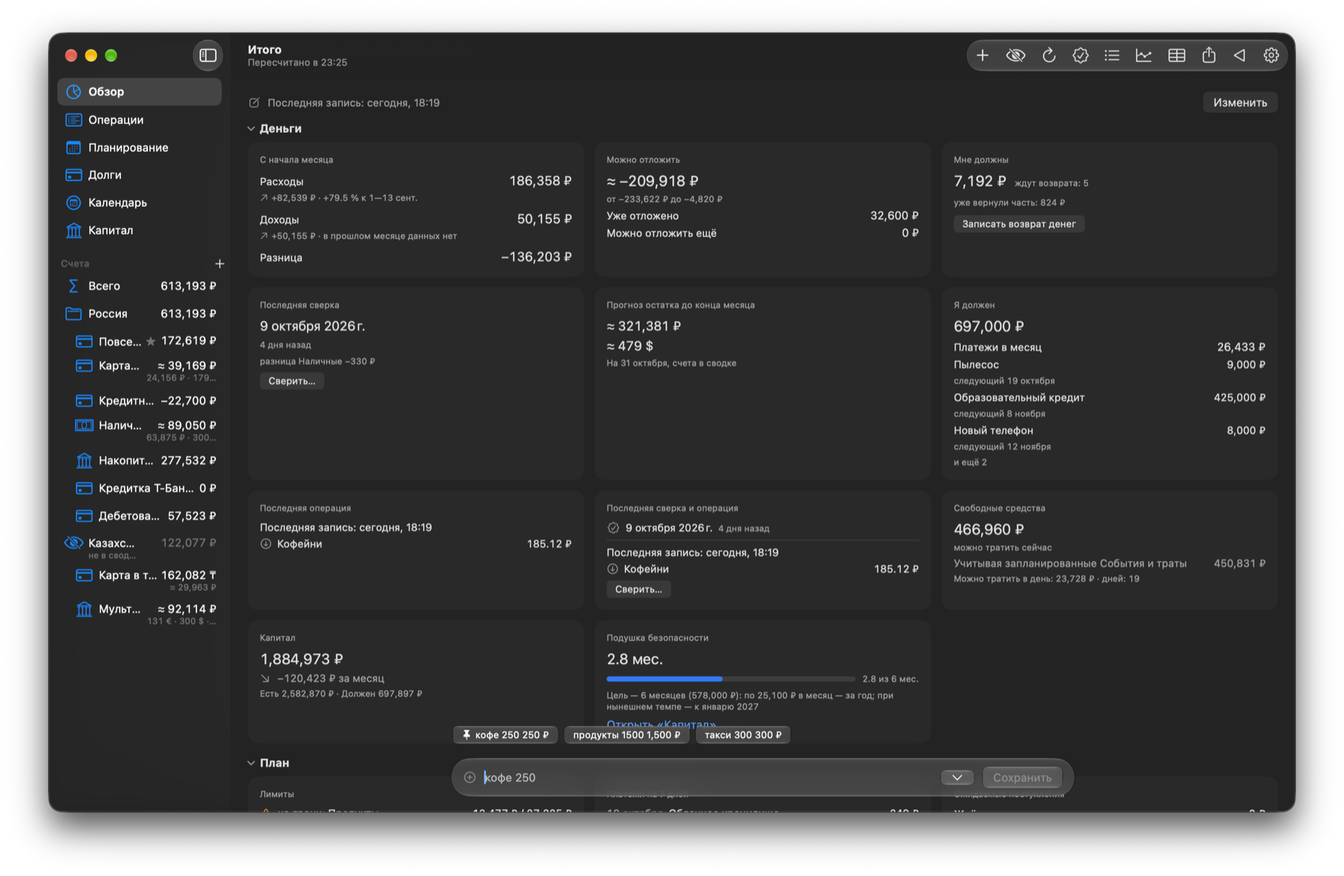
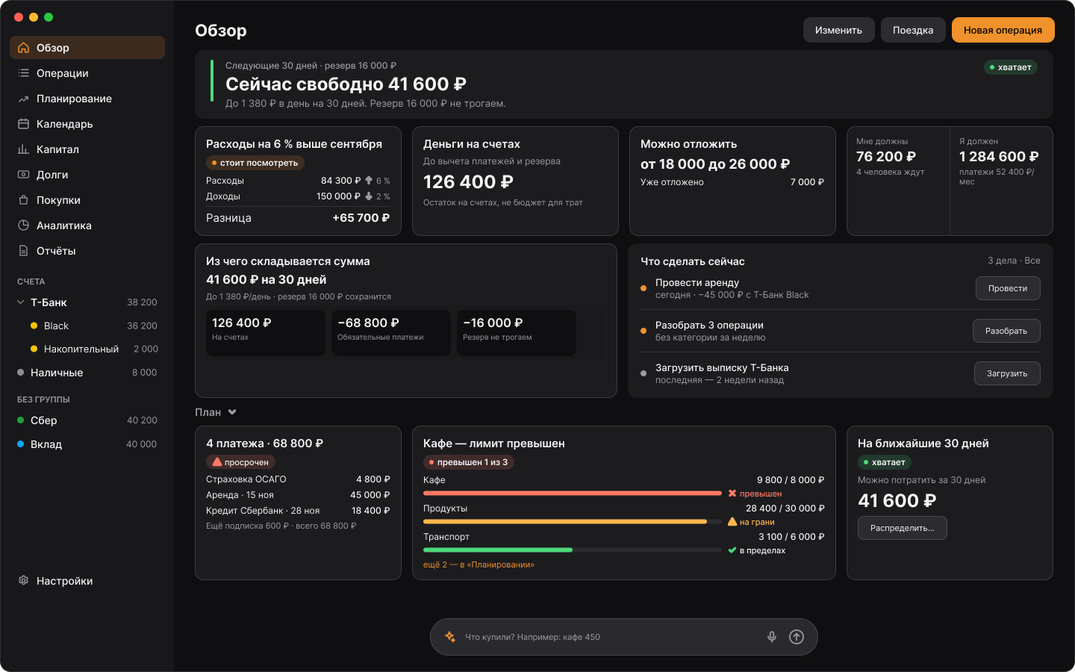
Describe the app as it is today in the README and the feature guide
The README and guide/features.md still described the app of early November; they now list
the credit card of a bank, partial payments, deductions, meters, the capital before the
books, iPhone and iPad, 24 languages and the report preview, with current screenshots.

diff --git a/guide/features.md b/guide/features.md
@@ -93,7 +93,8 @@
   этот счёт.
 - **Переводы и обмен валют.** Перевод между счетами или между валютами одного счёта:
   отправлено и получено — как показал банк, курс виден сам, комиссия — отдельный расход. У
-  перевода есть точное время, а не только дата. Перевод — не доход и не расход, в списке дня он
+  перевода есть точное время, а не только дата, и помнится пояс, в котором он записан: день перевода
+  и сверки читается в нём, поэтому после поездки или смены пояса операция не переезжает на другой день. Перевод — не доход и не расход, в списке дня он
   стоит отдельной строкой с ⇄ и отменяется одним ⌘Z. «Перевести остаток…» у кредитной карты в
   минусе покрывает её долг с основного счёта. Перевод пишется и строкой: `перевод 5000 сбер
   т-банк` — 5,000 ₽ с первого счёта на второй («с» и «на» меняют порядок, счёт узнаётся по имени
@@ -103,8 +104,8 @@
   маше 500` — по-прежнему расход. Если счёт не держит валюту операции, панель ↓
   предлагает «Списано со счёта» в его основной валюте по курсам Банка России, и сумму из выписки
   можно вписать поверх.
-- **Кредитка как в банке.** Кредитная карта — счёт, остаток которого уходит в минус, а не долг; её
-  условия — в редакторе счёта («Это кредитная карта»): лимит, ставка на покупки и на снятие и
+- **Кредитка как в банке.** Кредитная карта — отдельная карта банка со своим счётом, остаток которого
+  уходит в минус, а не долг; её условия — в редакторе счёта («Это кредитная карта»): лимит, ставка на покупки и на снятие и
   переводы, льготный период «выписка N-го числа + M дней на оплату» (25 по умолчанию) или «N дней с
   первой покупки», минимальный платёж (процент долга, не меньше суммы), комиссия за снятие и
   переводы (процент плюс фиксированная сумма) и «снятие и переводы без льготного периода». Экран
@@ -185,7 +186,10 @@
   (внесённое сверх плана засчитывается в следующие месяцы) и остатки бюджетов событий; от неё
   считается «Можно тратить в день». Плановый платёж может относиться к событию — тогда он часть
   его бюджета и не вычитается дважды; обычная операция оплачивает самый ранний неоплаченный срок,
-  а «Это другое» отвязывает её от всего платежа. Остатки бюджетов событий можно не вычитать вовсе —
+  а «Это другое» отвязывает её от всего платежа. Платёж можно вносить по частям: операции той
+  же категории в пределах пяти дней от срока и меньше цены считаются его частями, остаток — цена минус
+  внесённое, а срок остаётся открытым, пока платёж не оплачен полностью; у каждой такой связи есть
+  «Это другое», и платёж, оплаченный частями, не вычитается из свободной суммы дважды. Остатки бюджетов событий можно не вычитать вовсе —
   переключатель в «Свободной сумме» и в «Настройках → Планирование». Подписки, найденные по
   операциям, берут счёт и карту этих операций; ожидаемое поступление, которое приходит дважды в
   месяц (15-го и в последний день, по 25,000 ₽), заводится одной формой — «Ещё срок в месяце». Накопленное в валютной цели считается по
@@ -342,9 +346,12 @@
 - **Честные деньги.** Суммы — целые числа в единицах 1/10000, каждый расчёт идёт через
   `Decimal`, и деньги никогда не считаются в числах с плавающей точкой. Числа пишутся одинаково
   на обоих языках: `1,234.56 ₽`, `33.3 %`.
-- **Два языка, две темы.** Русский на русском Mac, английский на любом другом; в настройках можно
-  выбрать любой из них. Тема — светлая, тёмная или системная, основной цвет — на ваш выбор; размер
-  шрифта — мелкий, обычный, крупный или очень крупный («Настройки → Оформление»). Настройки —
+- **24 языка и темы.** Интерфейс переведён на 24 языка, включая русский и английский: язык
+  берётся по системе, в настройках можно выбрать любой. Тема — светлая,
+  тёмная или системная, основной цвет — на ваш выбор. Размер шрифта — мелкий, обычный, крупный или
+  очень крупный («Настройки → Оформление»); на iPhone и iPad по умолчанию стоит «Как в системе»: текст
+  следует размеру из системных настроек, в том числе самым крупным, а широкие строки при этом
+  встают в столбец. Настройки —
   боковая панель разделов и поиск по подписям на любом языке; окна, открытые из настроек, встают
   поверх них.
   Liquid Glass — в слое навигации и больше нигде.
@@ -361,6 +368,9 @@
   (бухгалтеру, консультанту): за выбранный период, без скрытых счетов, при желании с заменёнными
   названиями («Обезличить»). Без пароля копия не создаётся. Оригинальные данные при этом не
   меняются.
+- **Отчёт для другого человека.** «Файл → Отчёт для другого человека…»: выберите счета, категории и
+  период, и приложение подготовит PDF с паролем или CSV в зашифрованном контейнере, с подписью
+  «Подготовлено в OhMyMoney». Перед отправкой результат можно посмотреть в Quick Look. Пароль PDF — только латиницей, форма об этом говорит.
 - **Только просмотр.** Режим, в котором приложение ничего не записывает: можно смотреть и
   показывать, но нельзя ничего изменить случайно. Выход — по Touch ID или паролю.
 - **Суммы прячутся сами при записи экрана.** На iPhone и iPad при записи или показе экрана суммы
@@ -383,10 +393,14 @@
 - **Вопросы при правке.** Если правка записанной операции сама создаёт или усугубляет выход за
   лимит кредитки или ниже неснижаемого остатка, приложение спрашивает так же, как при новой записи;
   если превышение было до правки, оно не повторяет вопрос.
-- **Кредитные карты.** Кредитный счёт всегда с картой. Пока идёт льготный период — это карта с
-  напоминанием «внести до…»; когда пропущен срок выписки, вся задолженность показывается долгом в
-  «Долгах» и на экране банка (остаток считается один раз, в итоги долг не добавляется). Трата за
-  лимит сначала спрашивает, можно ли её записать, и даёт красную строку в «Стоит посмотреть».
+- **Кредитные карты.** У каждого банка своя кредитная карта со своими условиями и своим долгом;
+  кредитную карту нельзя завести без карты. Пока идёт льготный период — это карта с напоминанием
+  «внести до…»; когда пропущен срок выписки, задолженность показывается долгом в «Долгах» и на
+  экране банка (остаток считается один раз, в итоги долг второй раз не добавляется), а в итогах
+  банка и группы вычитается. Обычную карту можно сделать кредитной: приложение спросит, что делать
+  с прошлыми операциями — перенести все (по умолчанию, одним шагом ⌘Z, затем сверка обоих счетов),
+  только после выбранной даты или ничего. Трата за лимит сначала спрашивает, можно ли её записать,
+  и даёт красную строку в «Стоит посмотреть».
 - **Наличные по купюрам.** Сверка кошелька «По купюрам»: введите, сколько каких купюр и монет, и
   сумма попадёт в сверку.
 - **Вклады.** «Витрина вкладов» — встроенный список из 14 банков со ставками на дату (старше 30
@@ -425,6 +439,79 @@
   архиве). «Знаешь ли ты» — находка из 25 проверок. Итоги сохраняются в PDF (при «Скрыть суммы»
   приложение спросит «Сохранить с суммами?»), картинку года можно отправить через «Поделиться».
   Цифры сходятся с «Отчётами».
+- **Покупки и вещи.** Раздел «Покупки»: «Хочу купить» — желания с ценой, приоритетом, ссылкой и
+  историей цен; список покупок; «Вещи» — то, чем вы владеете, со стоимостью владения (цена плюс
+  расходы с тегом вещи минус продажа, на месяцы владения); «Ждут зачисления» — возвраты с
+  маркетплейса со сроком. Перед крупной покупкой (больше 20 % свободной суммы) приложение
+  может предложить паузу (включается в настройках), а через день спрашивает «Не пожалели?». Скидка — поле операции, после заправки
+  спрашивается пробег, у человека есть день рождения и бюджет подарка.
+- **Mac: Быстрые команды и уведомления.** Действия для Shortcuts и AppleScript: добавить,
+  изменить, удалить и найти операцию, итог месяца, выгрузка месяца в Markdown. Уведомление накануне
+  платежа с кнопкой «Записать оплату», о почти исчерпанном лимите, о готовых итогах и вечернее
+  напоминание; при «Скрыть суммы» уведомления без сумм, скрытые счета не называются никогда.
+  Фильтр фокусирования прячет суммы. Операции в Spotlight — только описание и место, по умолчанию
+  выключено. Любой раздел — в своём окне (⌥⌘N); операции перетаскиваются в Numbers и Почту
+  таблицей; «Операции», «Отчёты» и итоги печатаются; компактный вид «Операций», «Долгов» и
+  «Покупок»; Quick Look показывает архив переноса.
+- **Привычки и уроки.** Пропущенные дни восстанавливаются по остаткам счетов, потом по дням;
+  вечером — строка «Сегодня без трат?». Серии записей прощают один пропуск в неделю; значки за серии
+  и месяцы приходят в «Итоги» и остаются навсегда. У цели есть заметка «Зачем коплю» — она
+  появляется в трудную минуту. В гайде — список первого месяца и пять коротких уроков; режим
+  новичка приглушает сложные разделы, пока они не понадобятся.
+- **Кэшбэк-советник.** Потолок кэшбэка в месяц у правила и у счёта, день, когда банк открывает
+  выбор категорий, и лист, который предлагает категории месяца и сопоставляет категории банка с
+  вашими. В «Стоит посмотреть» — «Какой картой платить здесь» и ловушка кэшбэка; «Упущенный
+  кэшбэк» за три месяца — на экране счёта.
+- **История изменений.** У операции есть вкладка «История»: кто и когда менял её, на каком
+  устройстве. Удаление против правки решается по времени. Ключ обмена хранится в связке ключей, к
+  нему есть лист восстановления из 24 слов с QR-кодом для печати.
+- **Переезд из другого приложения.** «Файл → Переезд из другого приложения…» (на iPhone и iPad —
+  «Настройки → Счета») читает CSV, текст с табуляцией и Excel (.xlsx) из CoinKeeper, Дзен-мани,
+  Money Manager или любой таблицы. Столбцы угадываются и запоминаются, счета и категории
+  сопоставляются с вашими, предпросмотр показывает число операций, период и дубли. Перед переносом
+  делается копия базы, весь перенос отменяется одним ⌘Z. Выписка банка, загруженная потом,
+  дополняет перенесённые операции, а не удваивает их; валютные строки берут курс своего дня.
+- **Сообщения банка — в операции.** СМС или пуш банка передаются через Быстрые команды. По
+  умолчанию уведомление предлагает записать операцию («Записывать сразу» — настройка), дубли
+  второй раз не предлагаются, названия магазинов, которые вы дали, запоминаются, остаток из
+  сообщения сверяется с остатком счёта. Само сообщение не хранится.
+- **Налоговые вычеты.** У части операции можно отметить вид вычета — лечение, дорогостоящее
+  лечение, своё или детское обучение, спорт; ипотека отдаёт проценты в вычет, а счёт можно отметить
+  как индивидуальный инвестиционный. Таблица лимитов по годам считает, что можно вернуть; без
+  известного дохода она говорит, до какой суммы вернётся 13 %. Предел по процентам ипотеки считается
+  за всю жизнь, и экран говорит, когда прежние годы не учтены.
+- **Счётчики и квитанции.** Счётчики, их показания и квитанции со строками; расход и стоимость месяца
+  сравниваются с прошлым месяцем и прошлым годом, о показаниях напоминают в их окно. Показание
+  меньше прежнего помечается и спрашивает, не заменили ли счётчик, но сохранению не мешает.
+- **Капитал до первой записи.** Имущество начинается с цены покупки, кредит достраивается по графику
+  назад до дня, когда он взят, а деньги на счетах берутся из одной необязательной оценки; без оценки
+  ранняя часть серая и так и подписана. События — кредит взят, вещь куплена, кредит закрыт — стоят
+  на графике, где случились.
+- **Челленджи.** Неделя без доставки, месяц без новых подписок, лимит на кафе или свой: прогресс,
+  серия дней, день срыва и сколько сэкономлено. Создаются в «Планировании», плитка в «Обзоре» по
+  умолчанию скрыта, результат можно отправить картинкой — без сумм, если суммы скрыты.
+- **Инфляция и ключевая ставка.** С приложением идут месячные индексы потребительских цен Росстата с
+  января 2020 года по сентябрь 2026-го; месяц позже последнего известного остаётся без цифры, а не
+  с нулём. Ключевая ставка Банка России хранится по дням: кредит дороже ставки попадает в «Стоит
+  посмотреть», а вклад, который кончается при падающих ставках, об этом говорит.
+- **Чеки пачкой.** Несколько файлов или кодов проходят очередью: ясные записываются, сомнительные
+  ждут, итог их считает; у каждой близкой операции сказано, почему она близкая; чек можно вручную
+  разбить по категориям до записи.
+- **Отметки мест (выключены).** Отметки мест хранятся только на этом устройстве: рядом с отмеченным
+  местом iPhone подсказывает лучшую карту, а карта показывает, куда ушли деньги. Обе возможности
+  выключены по умолчанию, отметки не ходят между устройствами и не попадают в выгрузки.
+- **Mac, iPhone и iPad.** Приложения для iPhone и iPad показывают те же экраны: вкладки внизу и
+  запись за круглой кнопкой «+» на iPhone, боковая панель, как на Mac, на iPad; вечером приходит
+  напоминание записать траты дня. У каждого устройства своя база; изменения ходят небольшими
+  зашифрованными файлами через папку, которую выберете вы (в том числе в iCloud Drive), файл самой
+  базы в облако не кладётся. Запись, изменённая на двух устройствах, ждёт в «Конфликтах», пока вы не
+  выберете. В настройках обмена есть и облачные диски — Яндекс.Диск, Dropbox, OneDrive, Google Drive,
+  Облако Mail.ru и Supabase: файлы шифруются до загрузки и сервис видит только нечитаемые. Для
+  части дисков приложению нужен ключ, пока его нет — «Подключить» недоступно и говорит об этом;
+  с настоящими сервисами работа проверена ещё не у всех. Выпуски для iPhone и iPad
+  отдельным файлом не выходят — они собираются из исходников.
+- **Тихий пересчёт.** Цифры пересчитываются после каждой записи, блок держит прежнее значение,
+  пока не готово новое, а цифра, посчитанная до последней записи, подписана временем расчёта.
 - **Ваши данные — на вашем Mac.** База SQLite в контейнере приложения, бэкап после каждого
   изменения, папка для копий на ваш выбор, восстановление в два щелчка и один файл архива,
   который переносит всё на другой Mac.

diff --git a/README.md b/README.md
@@ -1,42 +1,96 @@
-# OhMyMoney
+<p align="center">
+  <img src="guide/screenshots/icon.png" alt="" width="96" height="96">
+</p>
 
-**OhMyMoney** — приложение для учёта личных финансов на Mac. Пишете одну строку — `кофе 250` — и получаете
-учёт, план и отчёты. Все данные остаются на вашем Mac.
+<h1 align="center">OhMyMoney</h1>
 
-[![Сборка](https://github.com/EvgenyBaulin/ohmymoney/actions/workflows/build.yml/badge.svg)](https://github.com/EvgenyBaulin/ohmymoney/actions/workflows/build.yml)
-[![Ядро на Linux](https://github.com/EvgenyBaulin/ohmymoney/actions/workflows/core-linux.yml/badge.svg)](https://github.com/EvgenyBaulin/ohmymoney/actions/workflows/core-linux.yml)
+<p align="center">
+  Учёт личных финансов для Mac, iPhone и iPad.<br>
+  Пишете одну строку — <code>кофе 250</code> — и видите, сколько можно потратить до конца месяца.
+</p>
+
+<p align="center">
+  <a href="https://github.com/EvgenyBaulin/ohmymoney/releases/latest"><b>Скачать для Mac</b></a> ·
+  <a href="https://ohmymoney.ru">ohmymoney.ru</a> ·
+  <a href="guide/features.md">Все возможности</a> ·
+  <a href="CHANGELOG.md">Что нового</a>
+</p>
+
+<p align="center">
+  <a href="https://github.com/EvgenyBaulin/ohmymoney/actions/workflows/build.yml"><img alt="Сборка" src="https://github.com/EvgenyBaulin/ohmymoney/actions/workflows/build.yml/badge.svg"></a>
+  <a href="https://github.com/EvgenyBaulin/ohmymoney/actions/workflows/core-linux.yml"><img alt="Ядро на Linux" src="https://github.com/EvgenyBaulin/ohmymoney/actions/workflows/core-linux.yml/badge.svg"></a>
+</p>
+
+<picture>
+  <source media="(prefers-color-scheme: dark)" srcset="guide/screenshots/overview-dark.png">
+  <img alt="Обзор: итоги месяца, свободные деньги, долги и строка ввода внизу" src="guide/screenshots/overview-light.png">
+</picture>
 
 ## Что умеет
 
-- **Запись одной строкой** — на русском или английском: `такси 350`, `обед (1200+800)/2`.
-- **Счета и карты** — в разных валютах, с кэшбэком и остатками.
-- **Планирование** — платежи, подписки, лимиты, цели и сколько можно потратить сейчас.
-- **Долги** — кто сколько должен вам и вы кому.
-- **Аналитика и отчёты** — по категориям, месяцам, людям и местам, с выгрузкой в CSV.
-- **Без сети и слежки** — в интернет только за курсами Банка России и обновлениями; телеметрии нет.
+- **Запись одной строкой** — по-русски или по-английски: `такси 350`, `обед (1200+800)/2`, `+ зарплата 120k`.
+- **Свободные деньги** — деньги на счетах минус ближайшие платежи, кредиты и отложенное на цели; у каждой цифры есть расчёт по строкам.
+- **Планирование и долги** — платежи (в том числе оплаченные по частям), подписки, лимиты, цели, челленджи, кредиты, рассрочки.
+- **Банки, карты и кэшбэк** — банк со счетами и картами; кредитка — отдельная карта банка со своими условиями и льготным периодом; условия вкладов; советник по кэшбэку.
+- **Покупки, чеки и «Итоги»** — список желаний, вещи, фото чеков и гарантии, итоги недели, месяца и года.
+- **Налоги и квартира** — налоговые вычеты, счётчики и квитанции за коммунальные услуги.
+- **Капитал** — счета, имущество и долги по месяцам, в том числе до начала учёта.
+- **Быстрый старт** — перенос из CoinKeeper, Дзен-мани, Money Manager, Excel и CSV; сообщения банка через Быстрые команды становятся операциями.
+- **Mac, iPhone и iPad** — одни и те же экраны; у каждого устройства своя база, изменения ходят зашифрованными файлами через выбранную вами папку (например, iCloud Drive).
+- **24 языка интерфейса** и размер текста «Как в системе» на iPhone и iPad.
+- **Аналитика и отчёты** — по категориям, месяцам, людям и местам; выгрузка в CSV; отчёт для другого человека — PDF с паролем, который можно посмотреть до отправки.
 
 Подробно — [все возможности](guide/features.md).
 
 ## Как выглядит
 
-Окна показаны на вымышленных данных демо-набора.
+Все окна — на вымышленных данных демо-набора.
 
-<picture>
-  <source media="(prefers-color-scheme: dark)" srcset="guide/screenshots/overview-dark.png">
-  <img alt="Обзор: плитки с итогами месяца, лимитами и платежами" src="guide/screenshots/overview-light.png">
-</picture>
+<table>
+  <tr>
+    <td width="50%">
+      <picture>
+        <source media="(prefers-color-scheme: dark)" srcset="guide/screenshots/planning-dark.png">
+        <img alt="Планирование: платежи, лимиты, цели и сколько можно потратить" src="guide/screenshots/planning-light.png">
+      </picture>
+      <p align="center"><sub>Планирование</sub></p>
+    </td>
+    <td width="50%">
+      <picture>
+        <source media="(prefers-color-scheme: dark)" srcset="guide/screenshots/calendar-dark.png">
+        <img alt="Календарь: траты по дням, дни с необычно большими тратами помечены" src="guide/screenshots/calendar-light.png">
+      </picture>
+      <p align="center"><sub>Календарь</sub></p>
+    </td>
+  </tr>
+  <tr>
+    <td width="50%">
+      <picture>
+        <source media="(prefers-color-scheme: dark)" srcset="guide/screenshots/capital-dark.png">
+        <img alt="Капитал: счета, имущество и долги по месяцам" src="guide/screenshots/capital-light.png">
+      </picture>
+      <p align="center"><sub>Капитал</sub></p>
+    </td>
+    <td width="50%">
+      <picture>
+        <source media="(prefers-color-scheme: dark)" srcset="guide/screenshots/entry-dark.png">
+        <img alt="Строка ввода: «кофе 250 вчера» и панель с полями операции" src="guide/screenshots/entry-light.png">
+      </picture>
+      <p align="center"><sub>Строка ввода</sub></p>
+    </td>
+  </tr>
+</table>
 
-<picture>
-  <source media="(prefers-color-scheme: dark)" srcset="guide/screenshots/entry-dark.png">
-  <img alt="Строка ввода: «кофе 250» и панель с полями операции" src="guide/screenshots/entry-light.png">
-</picture>
+## Приватность
 
-<picture>
-  <source media="(prefers-color-scheme: dark)" srcset="guide/screenshots/planning-dark.png">
-  <img alt="Планирование: платежи, лимиты, цели и сколько можно потратить" src="guide/screenshots/planning-light.png">
-</picture>
+- **Без аккаунта и сервера.** База лежит на вашем устройстве; в сеть приложение ходит только за курсами валют и обновлениями, а также туда, куда вы сами его подключите, — [список адресов](guide/privacy.md).
+- **Без слежки.** Ни аналитики, ни рекламы, ни сторонних SDK; в журнале ошибок нет сумм и названий.
+- **Скрыть суммы и счета.** ⌃⌘H прячет все суммы, отдельный счёт можно скрыть, вход — по Touch ID или паролю.
+- **Копии.** Бэкап после каждого изменения, копия дня и архив с паролем для переезда на другой Mac.
 
 ## Как установить
+
+Готовый выпуск — для Mac. Версии для iPhone и iPad собираются из тех же исходников; готового файла для них в выпусках нет.
 
 1. Нужна macOS 26 (Tahoe) или новее.
 2. Скачайте `OhMyMoney-<версия>.zip` из [последнего выпуска](https://github.com/EvgenyBaulin/ohmymoney/releases/latest).
@@ -44,9 +98,7 @@
 4. При первом запуске macOS его заблокирует: откройте **Системные настройки → Конфиденциальность и
    безопасность** и нажмите **Всё равно открыть**. Это нужно один раз.
 
-Подробно — [установка и первый запуск](guide/install.md).
-
-Новые версии приходят сами: приложение предложит обновиться.
+Новые версии приходят сами: приложение предложит обновиться. Подробно — [установка и первый запуск](guide/install.md).
 
 ## Подробнее
 
